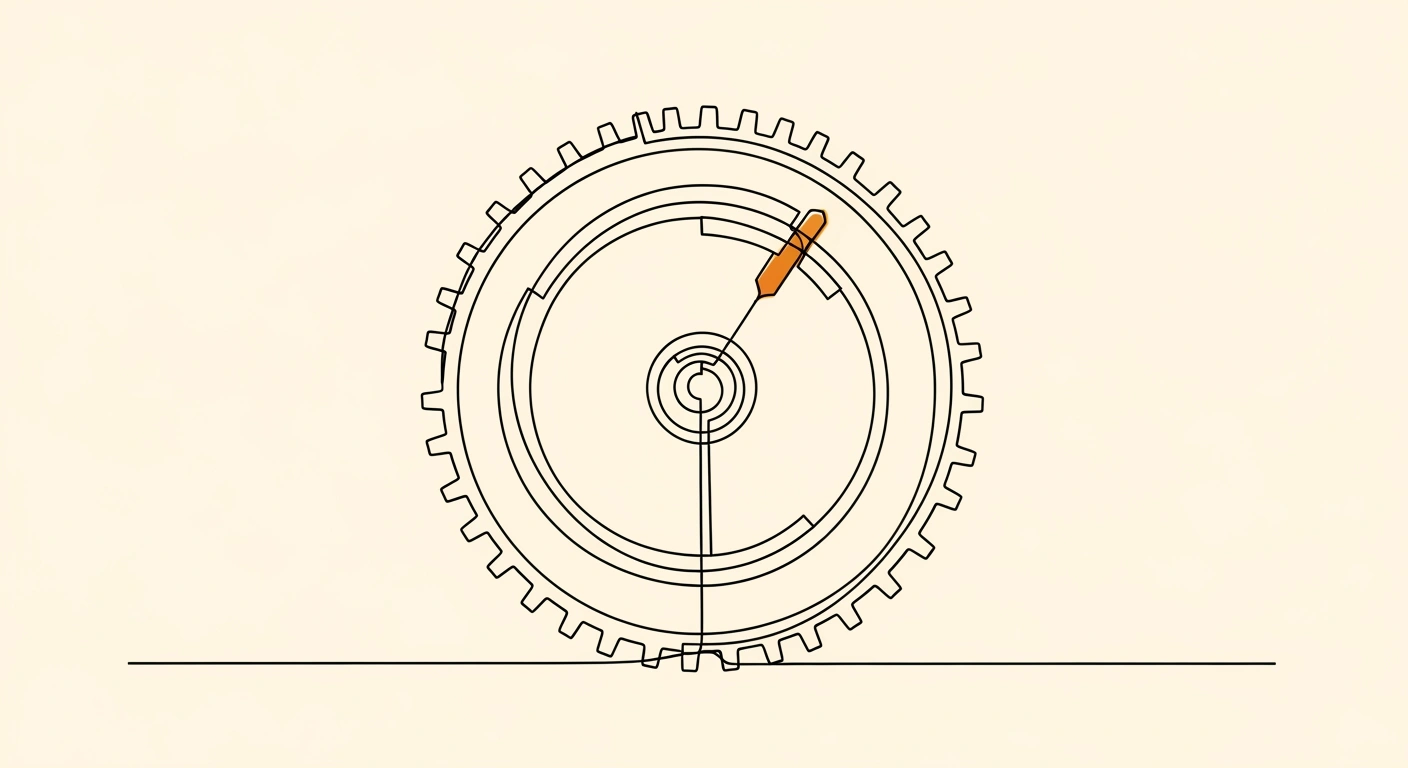
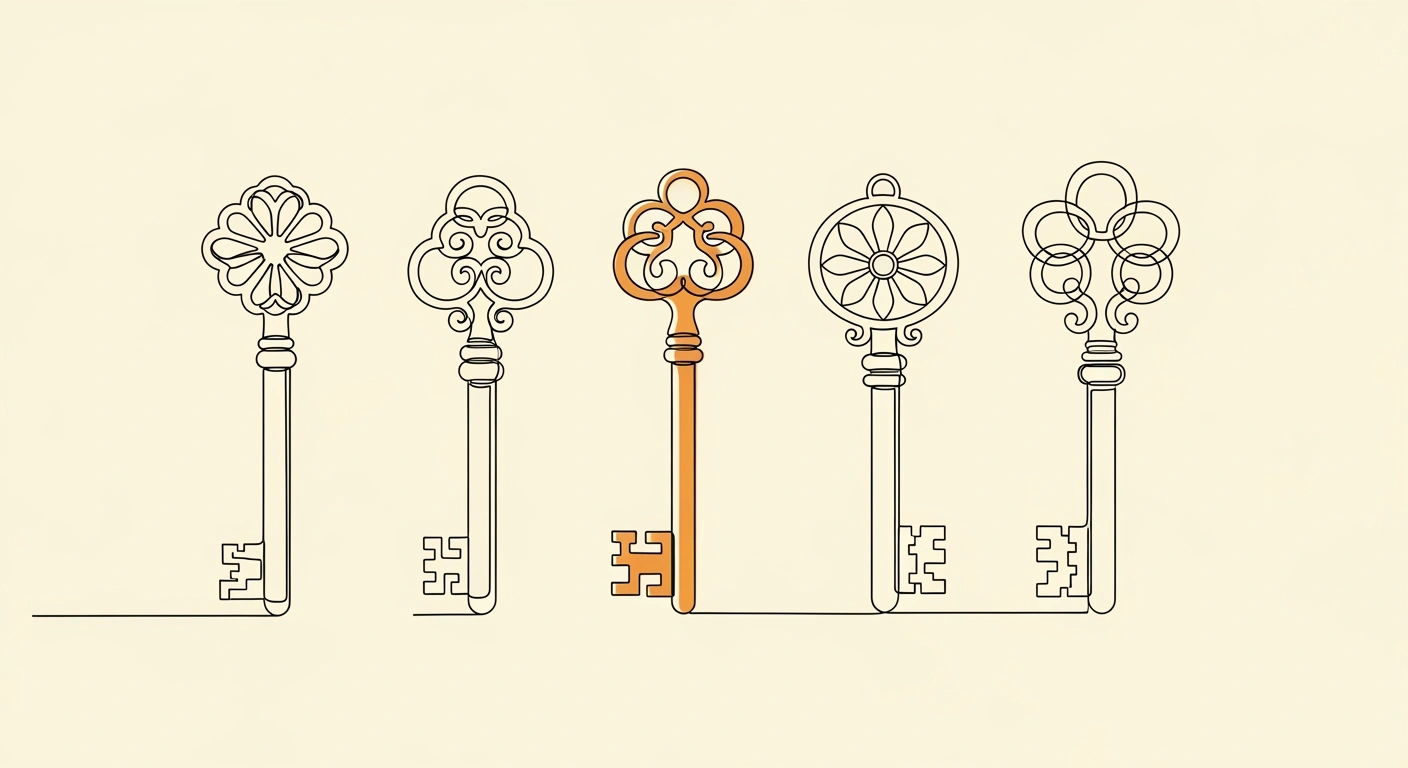
chore(content): re-roll two duplicate blog hero images
Nano Banana 2 had collapsed the "cipher wheel" and "open-vault
footprints" prompts into two visually identical gear illustrations for
`every-approval-you-sign-decoded` and `eight-approval-exploits-one-pattern`.
Rewrote both prompts to unmistakable, non-circular objects:
- eight exploits → row of dominoes, first one tipping in amber
- every approval decoded → row of ornate keys, one rendered in amber

Both new images are line-art on cream, amber accent, canon-aligned,
and now visually distinct from each other and from every existing
blog hero.

Changed region(s): [[0.0938, 0.125, 0.9062, 0.875], [0.0625, 0.2188, 0.25, 0.8125]]

diff --git a/scripts/generate-blog-images.py b/scripts/generate-blog-images.py
@@ -97,11 +97,11 @@ BLOG_IMAGES = [
     },
     {
         "filename": "eight-approval-exploits-one-pattern.webp",
-        "prompt": "Continuous single-line ink drawing of a trail of footprints leading away from an open vault door, one footprint rendered in warm amber, minimalist editorial illustration",
+        "prompt": "Continuous single-line ink drawing of eight standing dominoes arranged in a straight row on cream paper, the first domino tipped and rendered in warm amber, minimalist editorial illustration, no gears, no wheels",
     },
     {
         "filename": "every-approval-you-sign-decoded.webp",
-        "prompt": "Continuous single-line ink drawing of a cipher wheel with rotating inner and outer rings on cream paper, one cipher notch rendered in warm amber, minimalist editorial illustration",
+        "prompt": "Continuous single-line ink drawing of four different ornate keys laid side by side on cream paper, the second key rendered in warm amber, minimalist editorial illustration, no gears, no wheels",
     },
     {
         "filename": "ten-minute-wallet-audit.webp",
